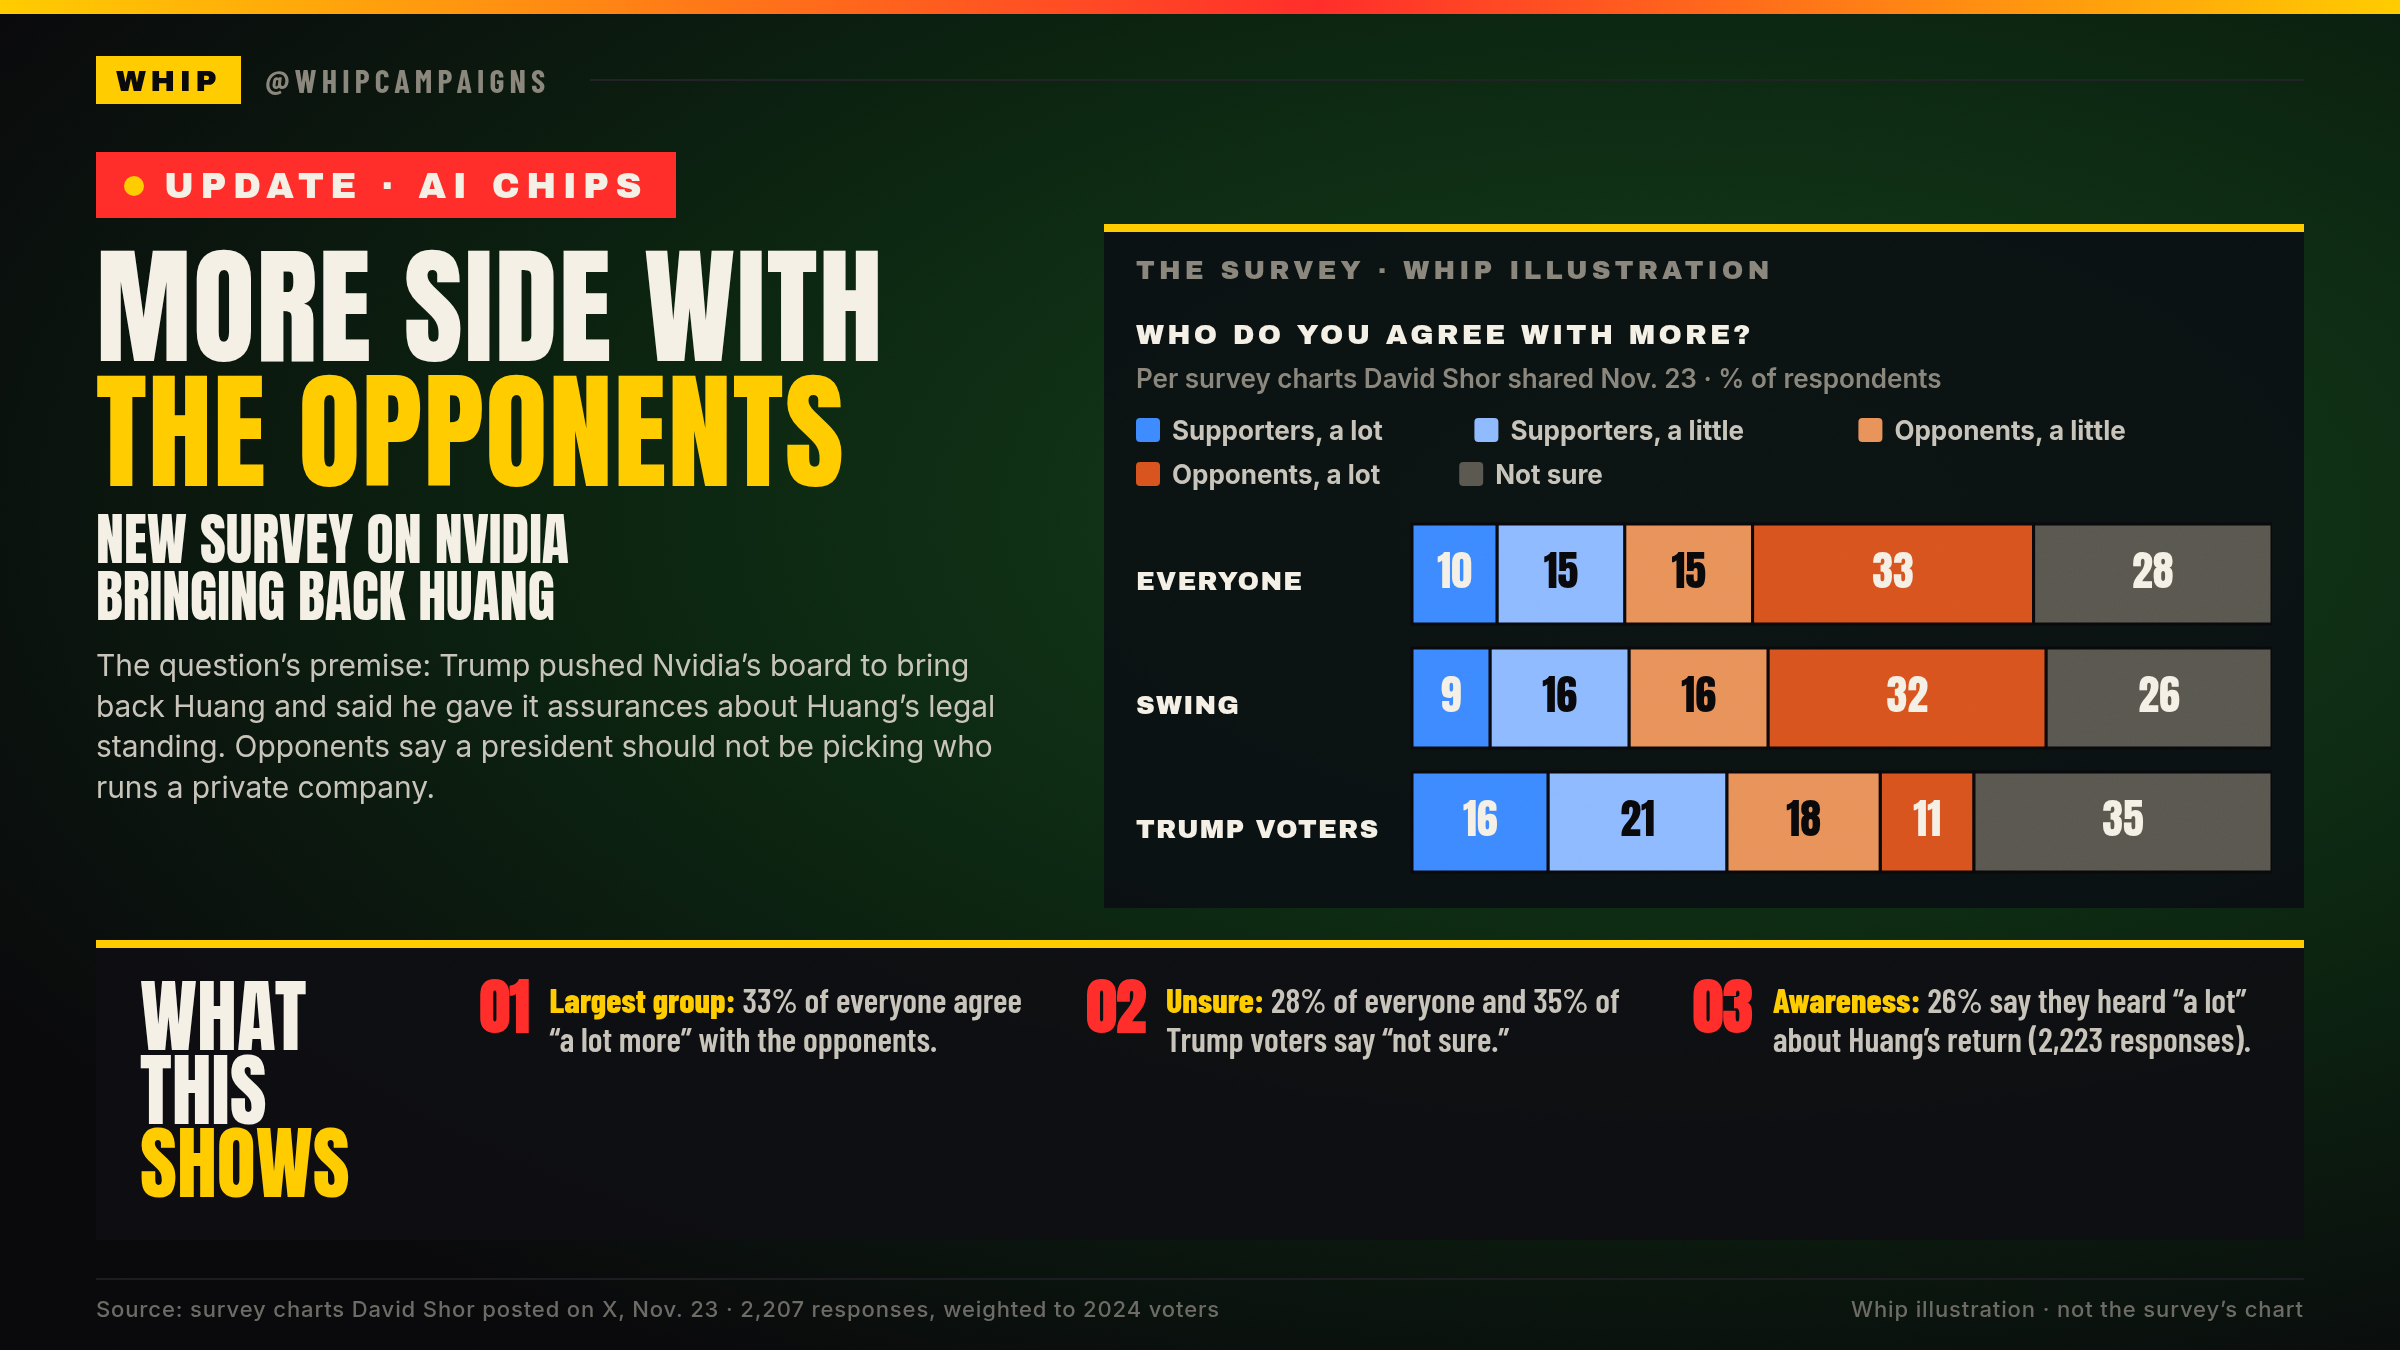
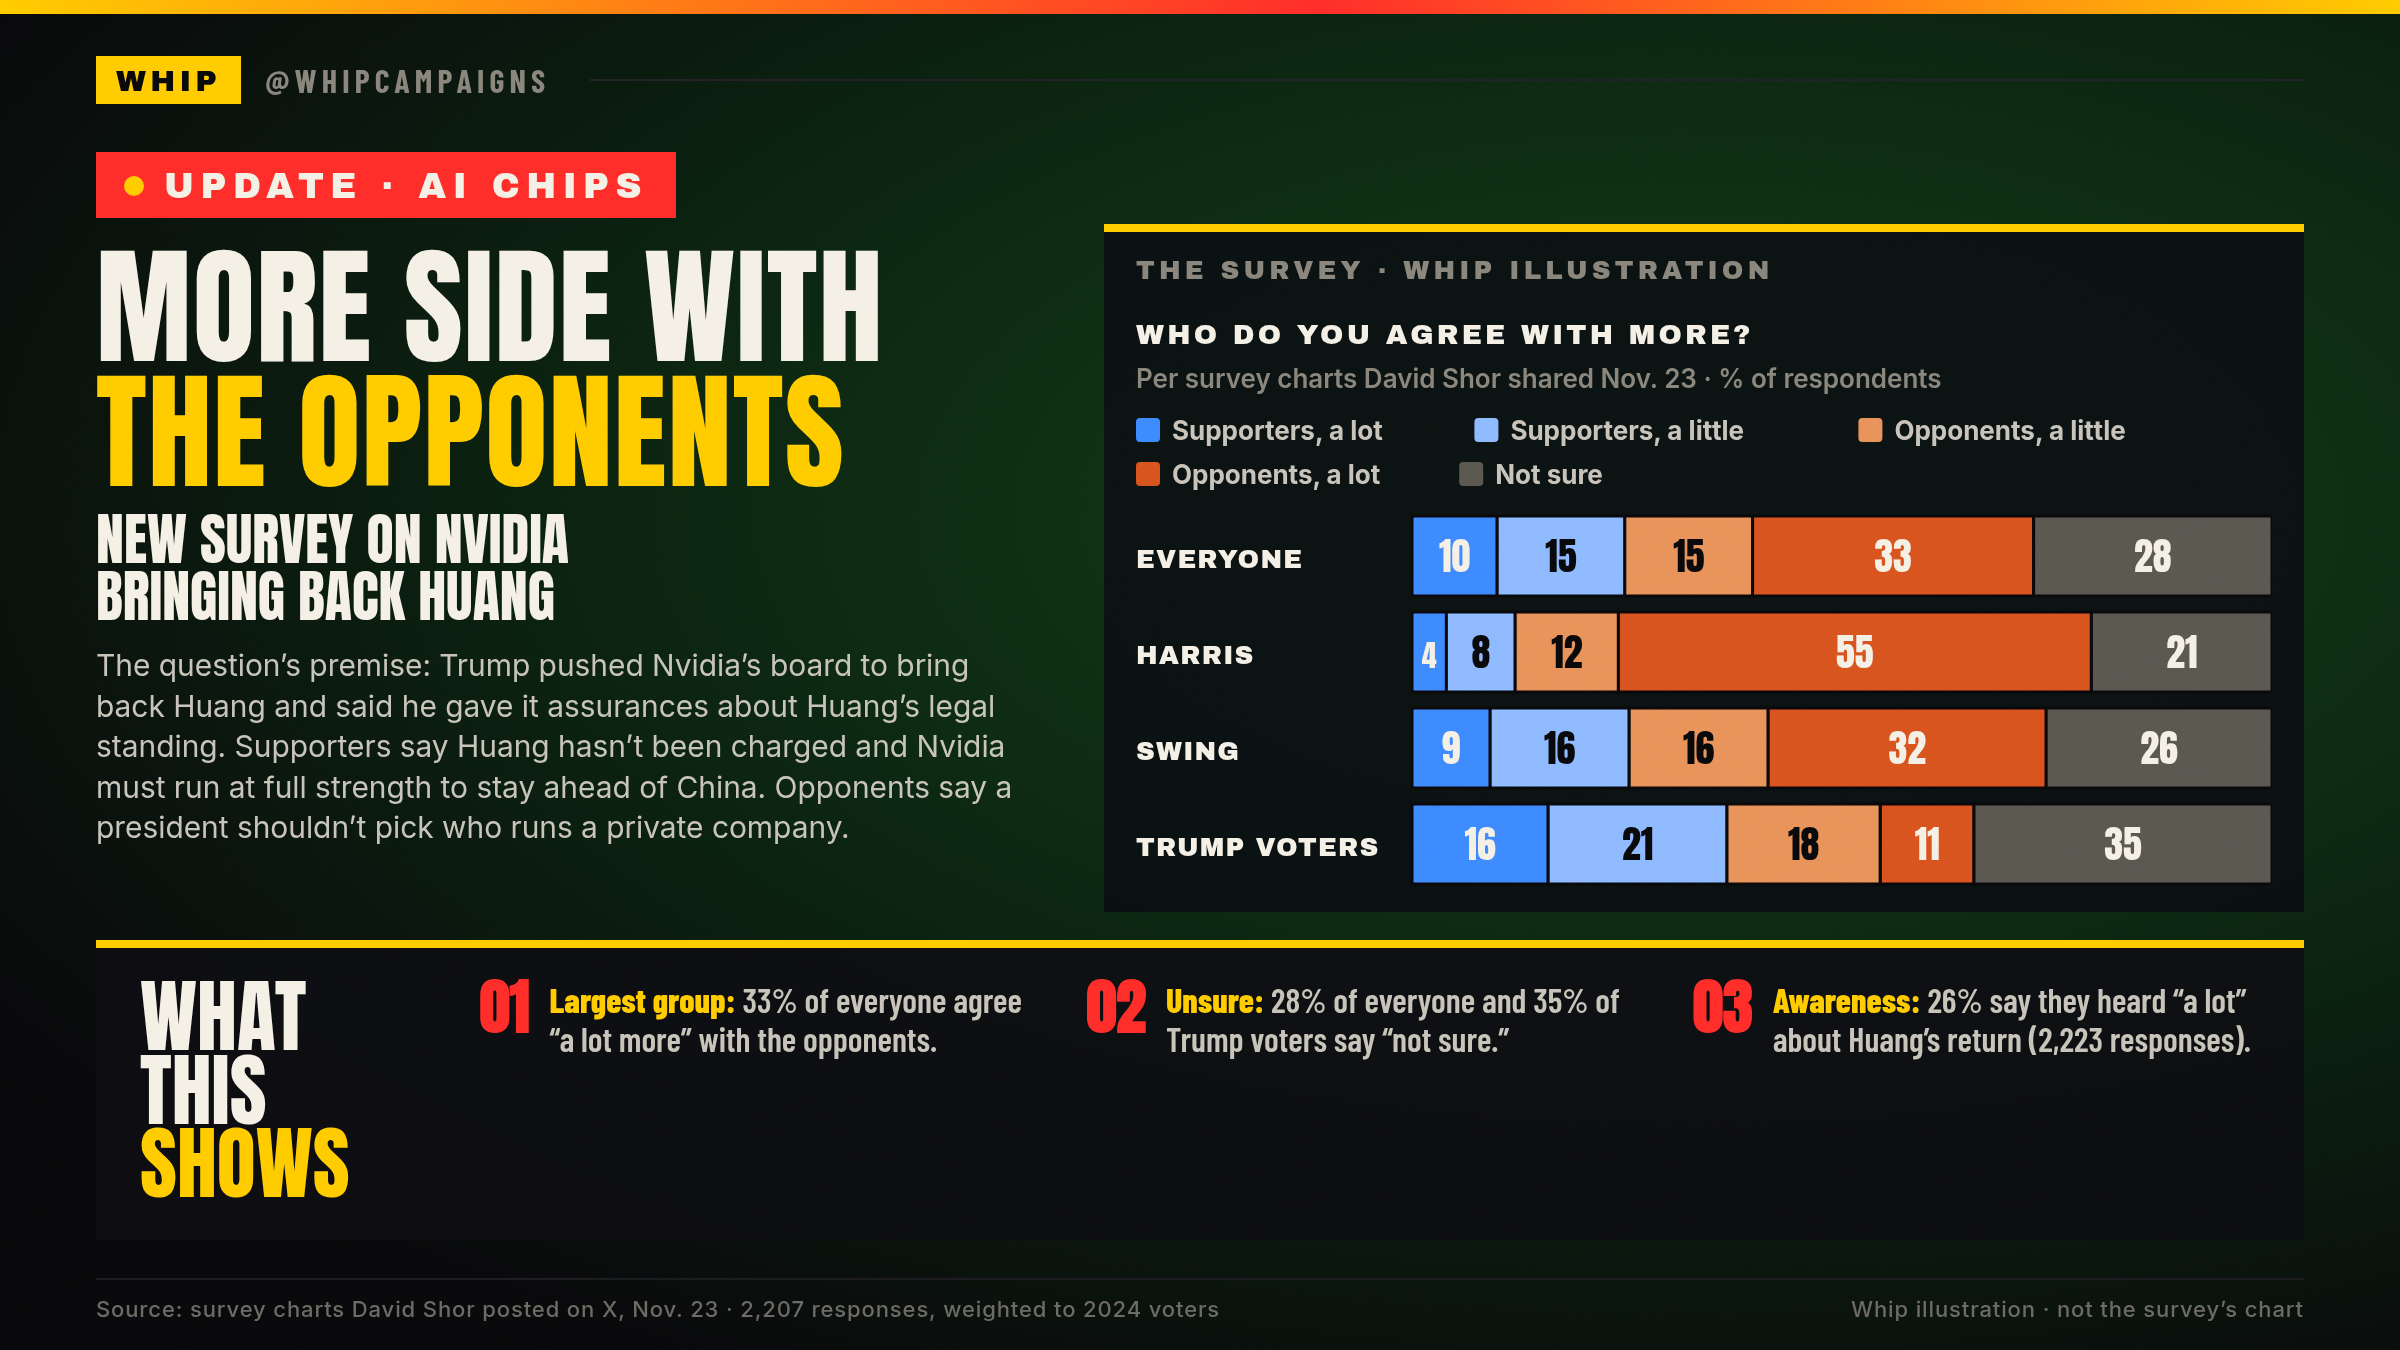
nvidia-huang-poll: add supporters' view and Harris row; Approver text

diff --git a/breaking/2026-11-23-nvidia-huang-poll/make_card.py b/breaking/2026-11-23-nvidia-huang-poll/make_card.py
@@ -15,7 +15,7 @@ RED, YEL, BLU, INK, PAPER, MUTE = "#ff2d2a", "#ffcc00", "#3d8bff", "#09090b", "#
 # segment colors: supporters (blue), opponents (orange), not sure (grey)
 SEG = [("Supporters, a lot", "#3d8bff", PAPER), ("Supporters, a little", "#8fbaff", INK),
        ("Opponents, a little", "#e8935a", INK), ("Opponents, a lot", "#d9541e", PAPER), ("Not sure", "#5a5850", PAPER)]
-ROWS = [("EVERYONE", [10, 15, 15, 33, 28]), ("SWING", [9, 16, 16, 32, 26]), ("TRUMP VOTERS", [16, 21, 18, 11, 35])]
+ROWS = [("EVERYONE", [10, 15, 15, 33, 28]), ("HARRIS", [4, 8, 12, 55, 21]), ("SWING", [9, 16, 16, 32, 26]), ("TRUMP VOTERS", [16, 21, 18, 11, 35])]
 parts = []
 parts.append(f'<text x="0" y="22" font-family="Archivo Black" font-size="14" letter-spacing="1.6" fill="{PAPER}">WHO DO YOU AGREE WITH MORE?</text>')
 parts.append(f'<text x="0" y="44" font-family="Inter" font-size="13" font-weight="600" fill="{MUTE}">Per survey charts David Shor shared Nov. 23 &#183; % of respondents</text>')
@@ -28,17 +28,17 @@ for i, (lab, col, _) in enumerate(SEG):
     lx += 18 + len(lab) * 7.6 + 22
 LBL = 138
 BW = W - LBL
-y = 112
+y = 108
 for name, vals in ROWS:
-    parts.append(f'<text x="0" y="{y+33}" font-family="Archivo Black" font-size="13" letter-spacing="0.6" fill="{PAPER}">{name}</text>')
+    parts.append(f'<text x="0" y="{y+26}" font-family="Archivo Black" font-size="13" letter-spacing="0.6" fill="{PAPER}">{name}</text>')
     x = LBL
     tot = sum(vals)
     for v, (lab, col, tc) in zip(vals, SEG):
         w = BW * v / tot
-        parts.append(f'<rect x="{x:.1f}" y="{y}" width="{w:.1f}" height="50" fill="{col}" stroke="#09090b" stroke-width="1.5"/>')
-        parts.append(f'<text x="{x+w/2:.1f}" y="{y+32}" text-anchor="middle" font-family="Anton" font-size="21" fill="{tc}">{v}</text>')
+        parts.append(f'<rect x="{x:.1f}" y="{y}" width="{w:.1f}" height="40" fill="{col}" stroke="#09090b" stroke-width="1.5"/>')
+        parts.append(f'<text x="{x+w/2:.1f}" y="{y+28}" text-anchor="middle" font-family="Anton" font-size="{19 if w>24 else 15}" fill="{tc}">{v}</text>')
         x += w
-    y += 62
+    y += 48
 H = y - 4
 graphic = f'<svg xmlns="http://www.w3.org/2000/svg" width="{W}" height="{H}" viewBox="0 0 {W} {H}">{"".join(parts)}</svg>'
 html = wrap(f"""
@@ -47,7 +47,7 @@ html = wrap(f"""
 <div class="left">
   <div class="h1">MORE SIDE WITH<br><span class="y">THE OPPONENTS</span></div>
   <div class="h2">NEW SURVEY ON NVIDIA<br>BRINGING BACK HUANG</div>
-  <div class="att">The question&rsquo;s premise: Trump pushed Nvidia&rsquo;s board to bring back Huang and said he gave it assurances about Huang&rsquo;s legal standing. Opponents say a president should not be picking who runs a private company.</div>
+  <div class="att">The question&rsquo;s premise: Trump pushed Nvidia&rsquo;s board to bring back Huang and said he gave it assurances about Huang&rsquo;s legal standing. Supporters say Huang hasn&rsquo;t been charged and Nvidia must run at full strength to stay ahead of China. Opponents say a president shouldn&rsquo;t pick who runs a private company.</div>
 </div>
 <div class="panel">
   <div class="ph">THE SURVEY &middot; WHIP ILLUSTRATION</div>

diff --git a/breaking/2026-11-23-nvidia-huang-poll/tweet.md b/breaking/2026-11-23-nvidia-huang-poll/tweet.md
@@ -2,11 +2,9 @@
 
 Draft (not posted). Target: Buffer quote of our 10:52 AM ET UPDATE (Trump told CNBC he spoke with Nvidia's board) https://x.com/whipcampaigns/status/2124893740267421788. Attach card.png. No hook.
 
-Text (len 279):
+Text (len 268, Approver-revised):
 
-UPDATE: 33% agreed "a lot more" with opponents who say a president shouldn't pick who runs a private company, in a national survey David Shor shared. Its premise: Trump pushed Nvidia's board to bring back Huang.
-
-Swing voters leaned likewise; Trump voters were most often unsure.
+UPDATE: In a national survey David Shor shared, 33% sided "a lot more" with opponents who say a president shouldn't pick who runs a private company; 10% did with supporters who note Huang hasn't been charged. Its premise: Trump pushed Nvidia's board to bring him back.
 
 Sources:
 - David Shor on X, Nov 23 7:06 PM ET, two survey charts: https://x.com/davidshor/status/2125018153885597829
